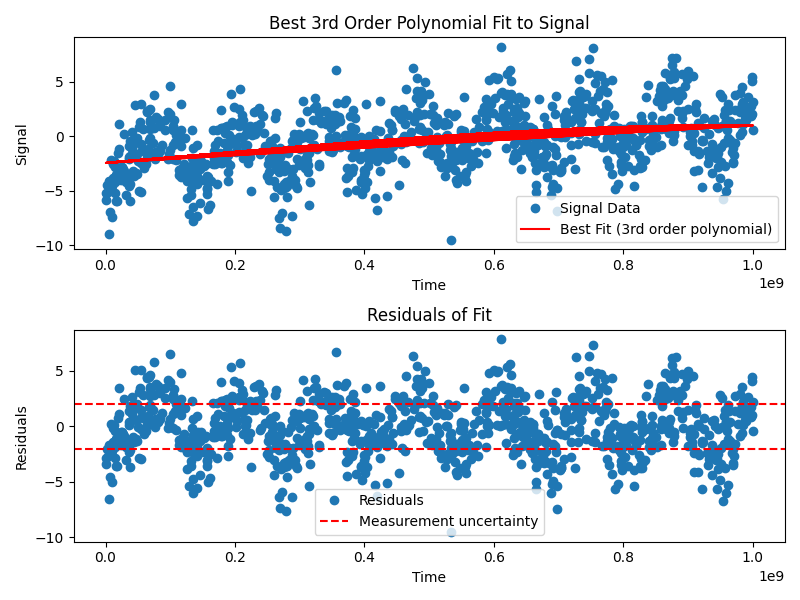
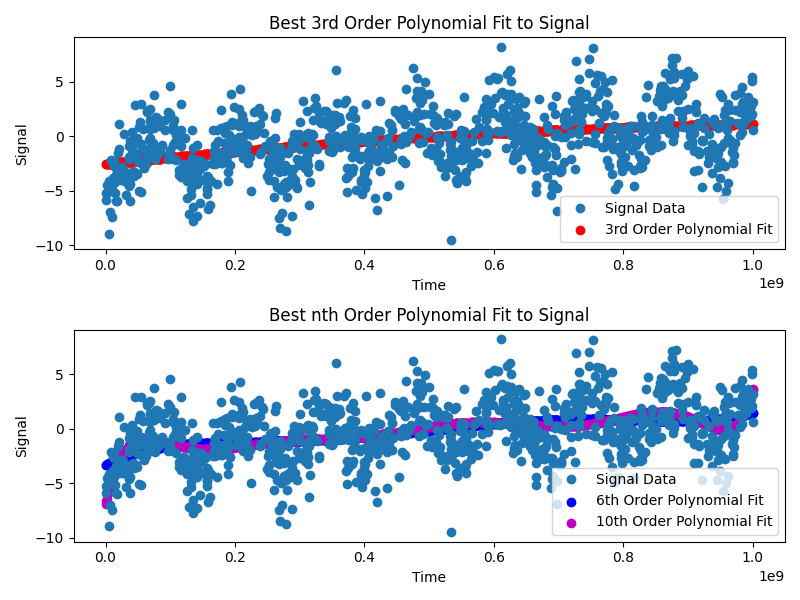
renamed variables

diff --git a/PS-5/Problem3/prob3.py b/PS-5/Problem3/prob3.py
@@ -14,70 +14,43 @@ plt.savefig('Signal')
 
 
 
-
-
-
-
-
 t = data['time'].values
 a = data['signal'].values
 
-# Center the time values (scaling: subtract mean and divide by standard deviation)
-t_mean = np.mean(t)
-t_std = np.std(t)
-ts = (t - t_mean) / t_std  # This improves numerical stability for SVD
-
-# Construct the design matrix for a third-order polynomial
-# We are fitting y = c0 + c1*x + c2*x^2 + c3*x^3
-def polynomial_fit(ts,n):
+def polynomial_fit(t,n):
+    ts = (t - np.mean(t))/np.std(t)
     T_n = np.column_stack([ts**i for i in range(n)])
 
-    U, Sigma, Vt = np.linalg.svd(T_n, full_matrices=False)
+    U, Sigma, V_T = np.linalg.svd(T_n, full_matrices=False)
     Sigma_inv = np.diag(1/Sigma)
-
-    T_pseudoinv = Vt.T @ Sigma_inv @ U.T
-
-
+    T_pseudoinv = V_T.T @ Sigma_inv @ U.T
     co = T_pseudoinv @ a
+    poly_fit = np.dot(T_n,co)
 
-
-    def model(x, co):
-        return co[0] + co[1] * x + co[2] * x**2 + co[3] * x**3
-
-
-    poly_fit = model(ts, co)
+    return poly_fit
 
     residuals = a - poly_fit
 
 
-
 plt.figure(figsize=(8, 6))
 plt.subplot(2, 1, 1)
-plt.plot(t, a, 'o', label='Signal Data')
-plt.plot(t, a_fit, label='Best Fit (3rd order polynomial)', color='red')
 plt.xlabel('Time')
 plt.ylabel('Signal')
 plt.title('Best 3rd Order Polynomial Fit to Signal')
+
+plt.plot(t, a, 'o', label='Signal Data')
+plt.scatter(t, polynomial_fit(t,3), label='3rd Order Polynomial Fit', color='red')
 plt.legend()
 
-# Plot the residuals
+
 plt.subplot(2, 1, 2)
-plt.plot(t, residuals, 'o', label='Residuals')
-plt.axhline(2.0, color='red', linestyle='--', label='Measurement uncertainty')
-plt.axhline(-2.0, color='red', linestyle='--')
 plt.xlabel('Time')
-plt.ylabel('Residuals')
-plt.title('Residuals of Fit')
-plt.legend()
+plt.ylabel('Signal')
+plt.title('Best nth Order Polynomial Fit to Signal')
 
+plt.plot(t, a, 'o', label='Signal Data')
+plt.scatter(t, polynomial_fit(t,6), label='6th Order Polynomial Fit', color='blue')
+plt.scatter(t, polynomial_fit(t,10), label='10th Order Polynomial Fit', color='m')
+plt.legend()
 plt.tight_layout()
 plt.savefig('SVD')
-
-# Check if the residuals exceed the uncertainty
-max_residual = np.max(np.abs(residuals))
-print(f"Maximum Residual: {max_residual:.2f}")
-
-if max_residual > 2.0:
-    print("The residuals exceed the measurement uncertainty, suggesting the model is not a good fit.")
-else:
-    print("The model fits within the measurement uncertainty.")
